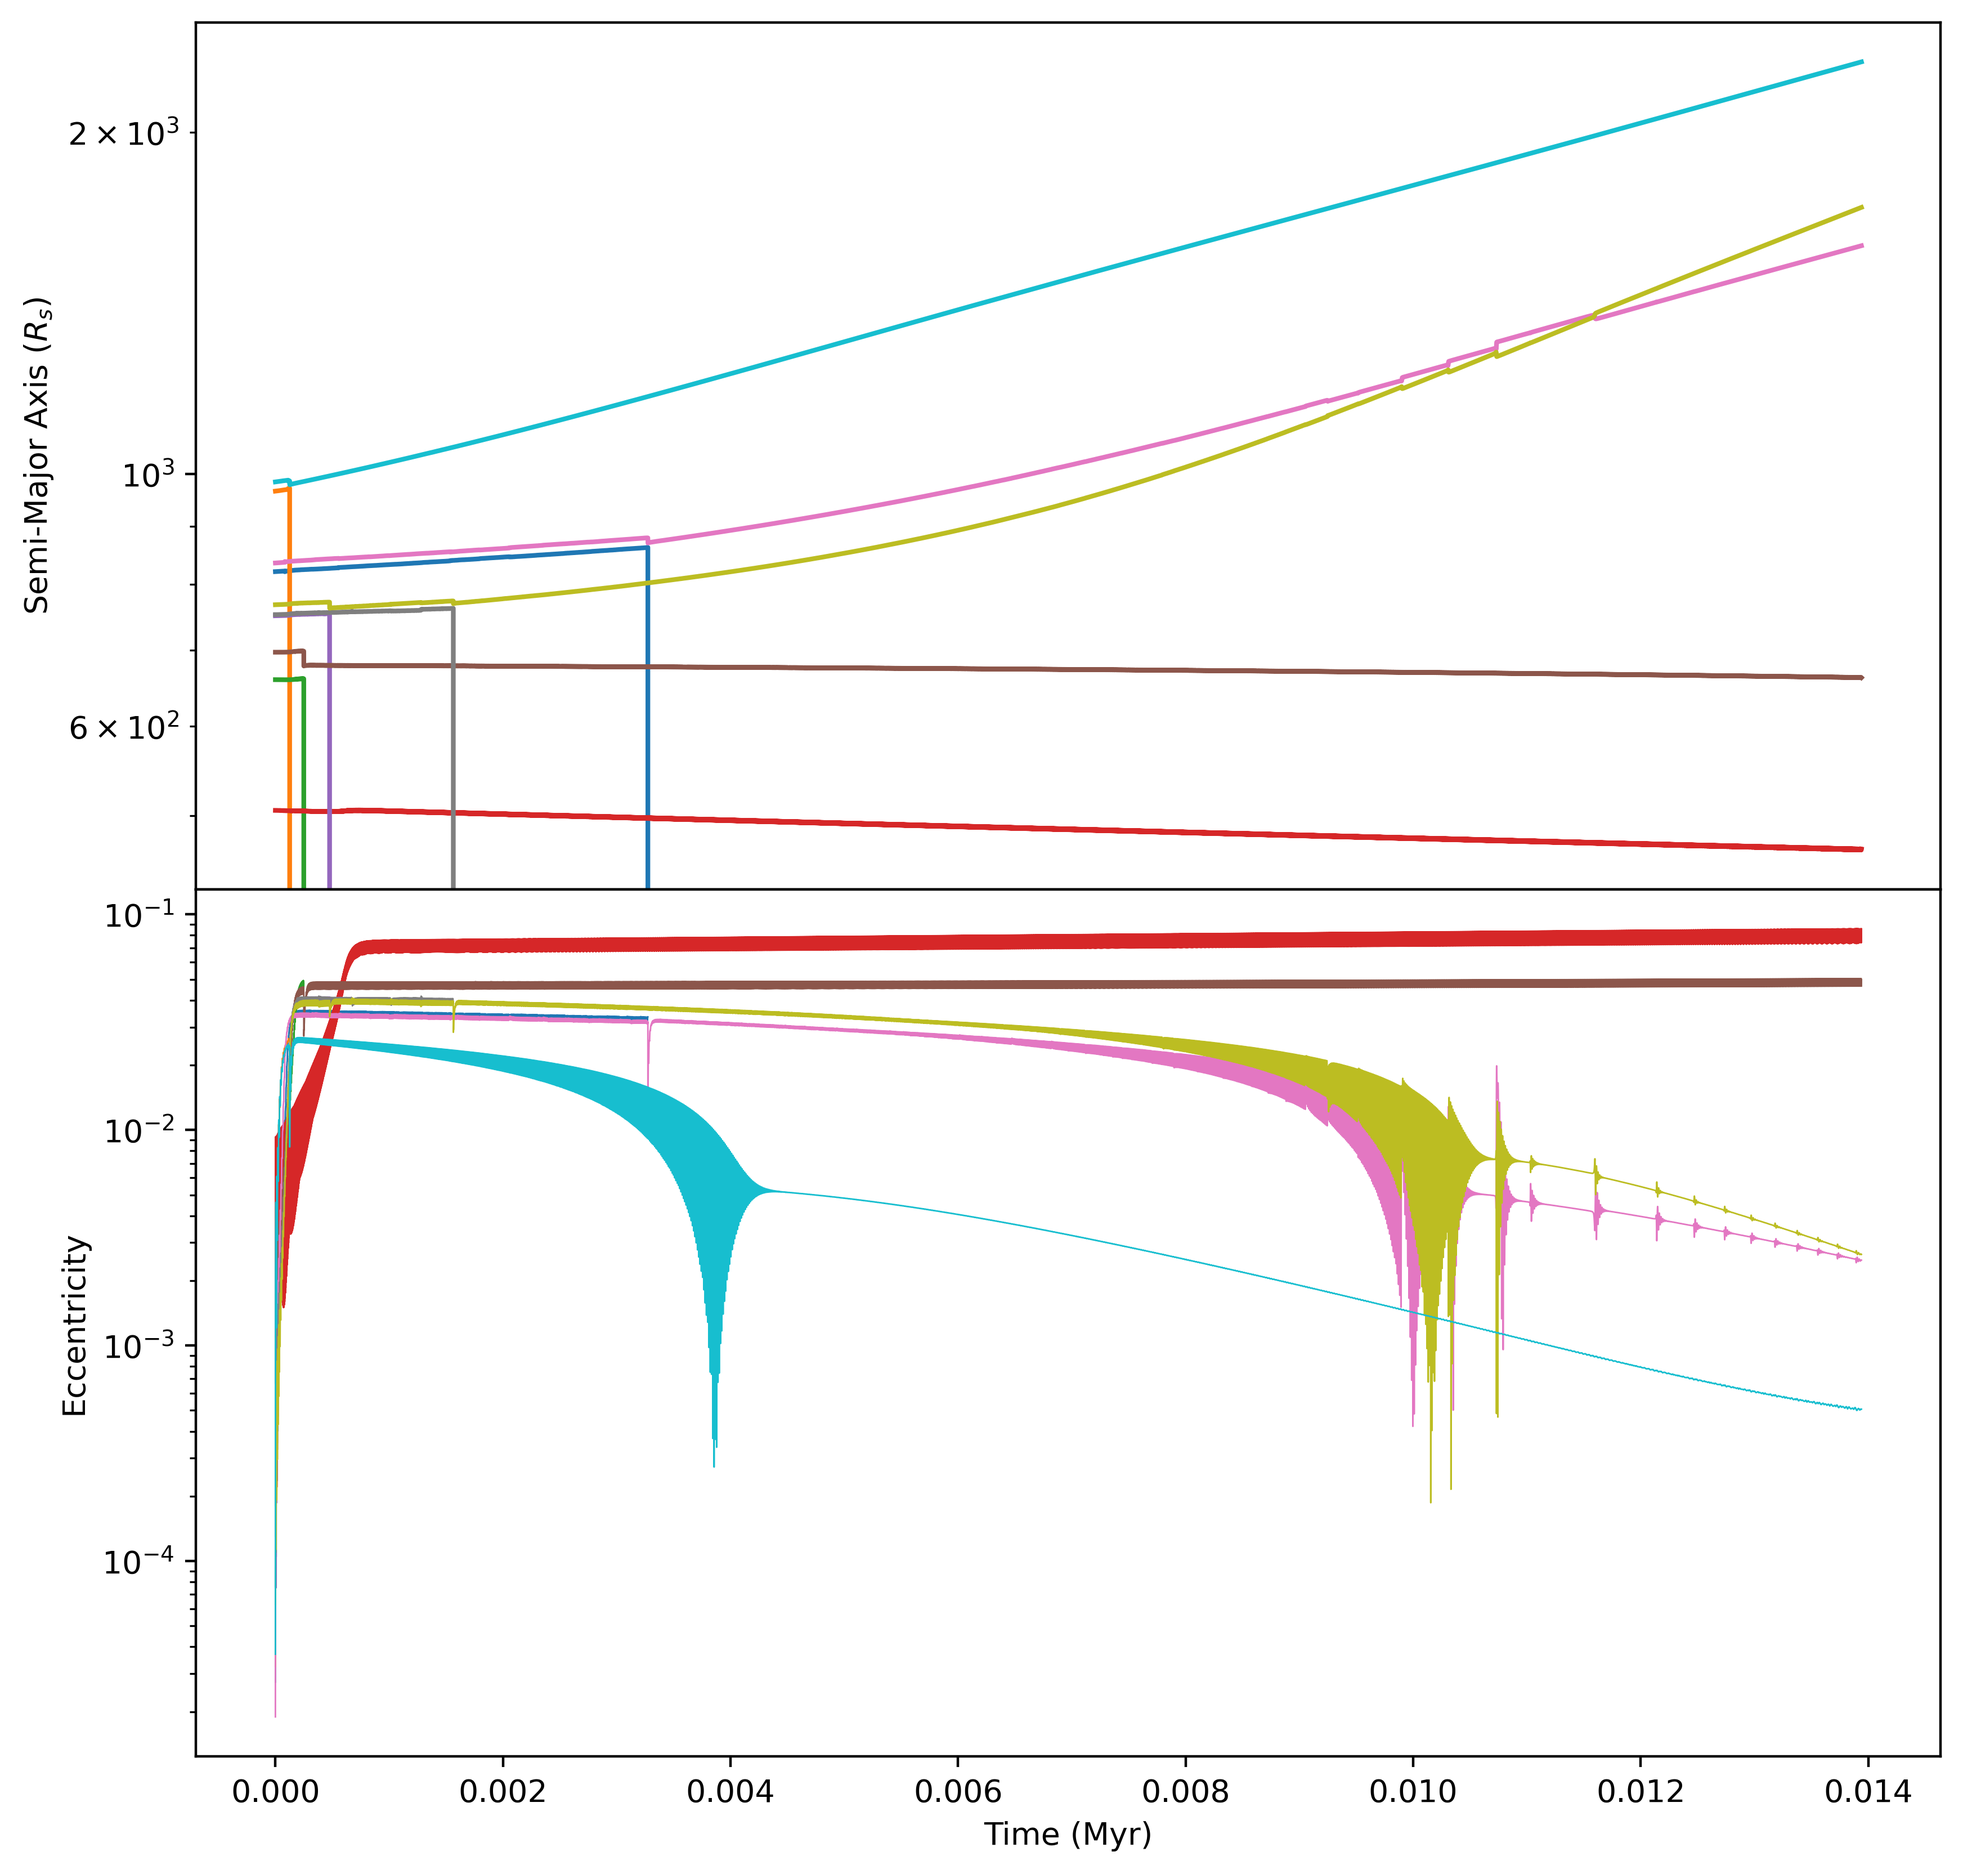
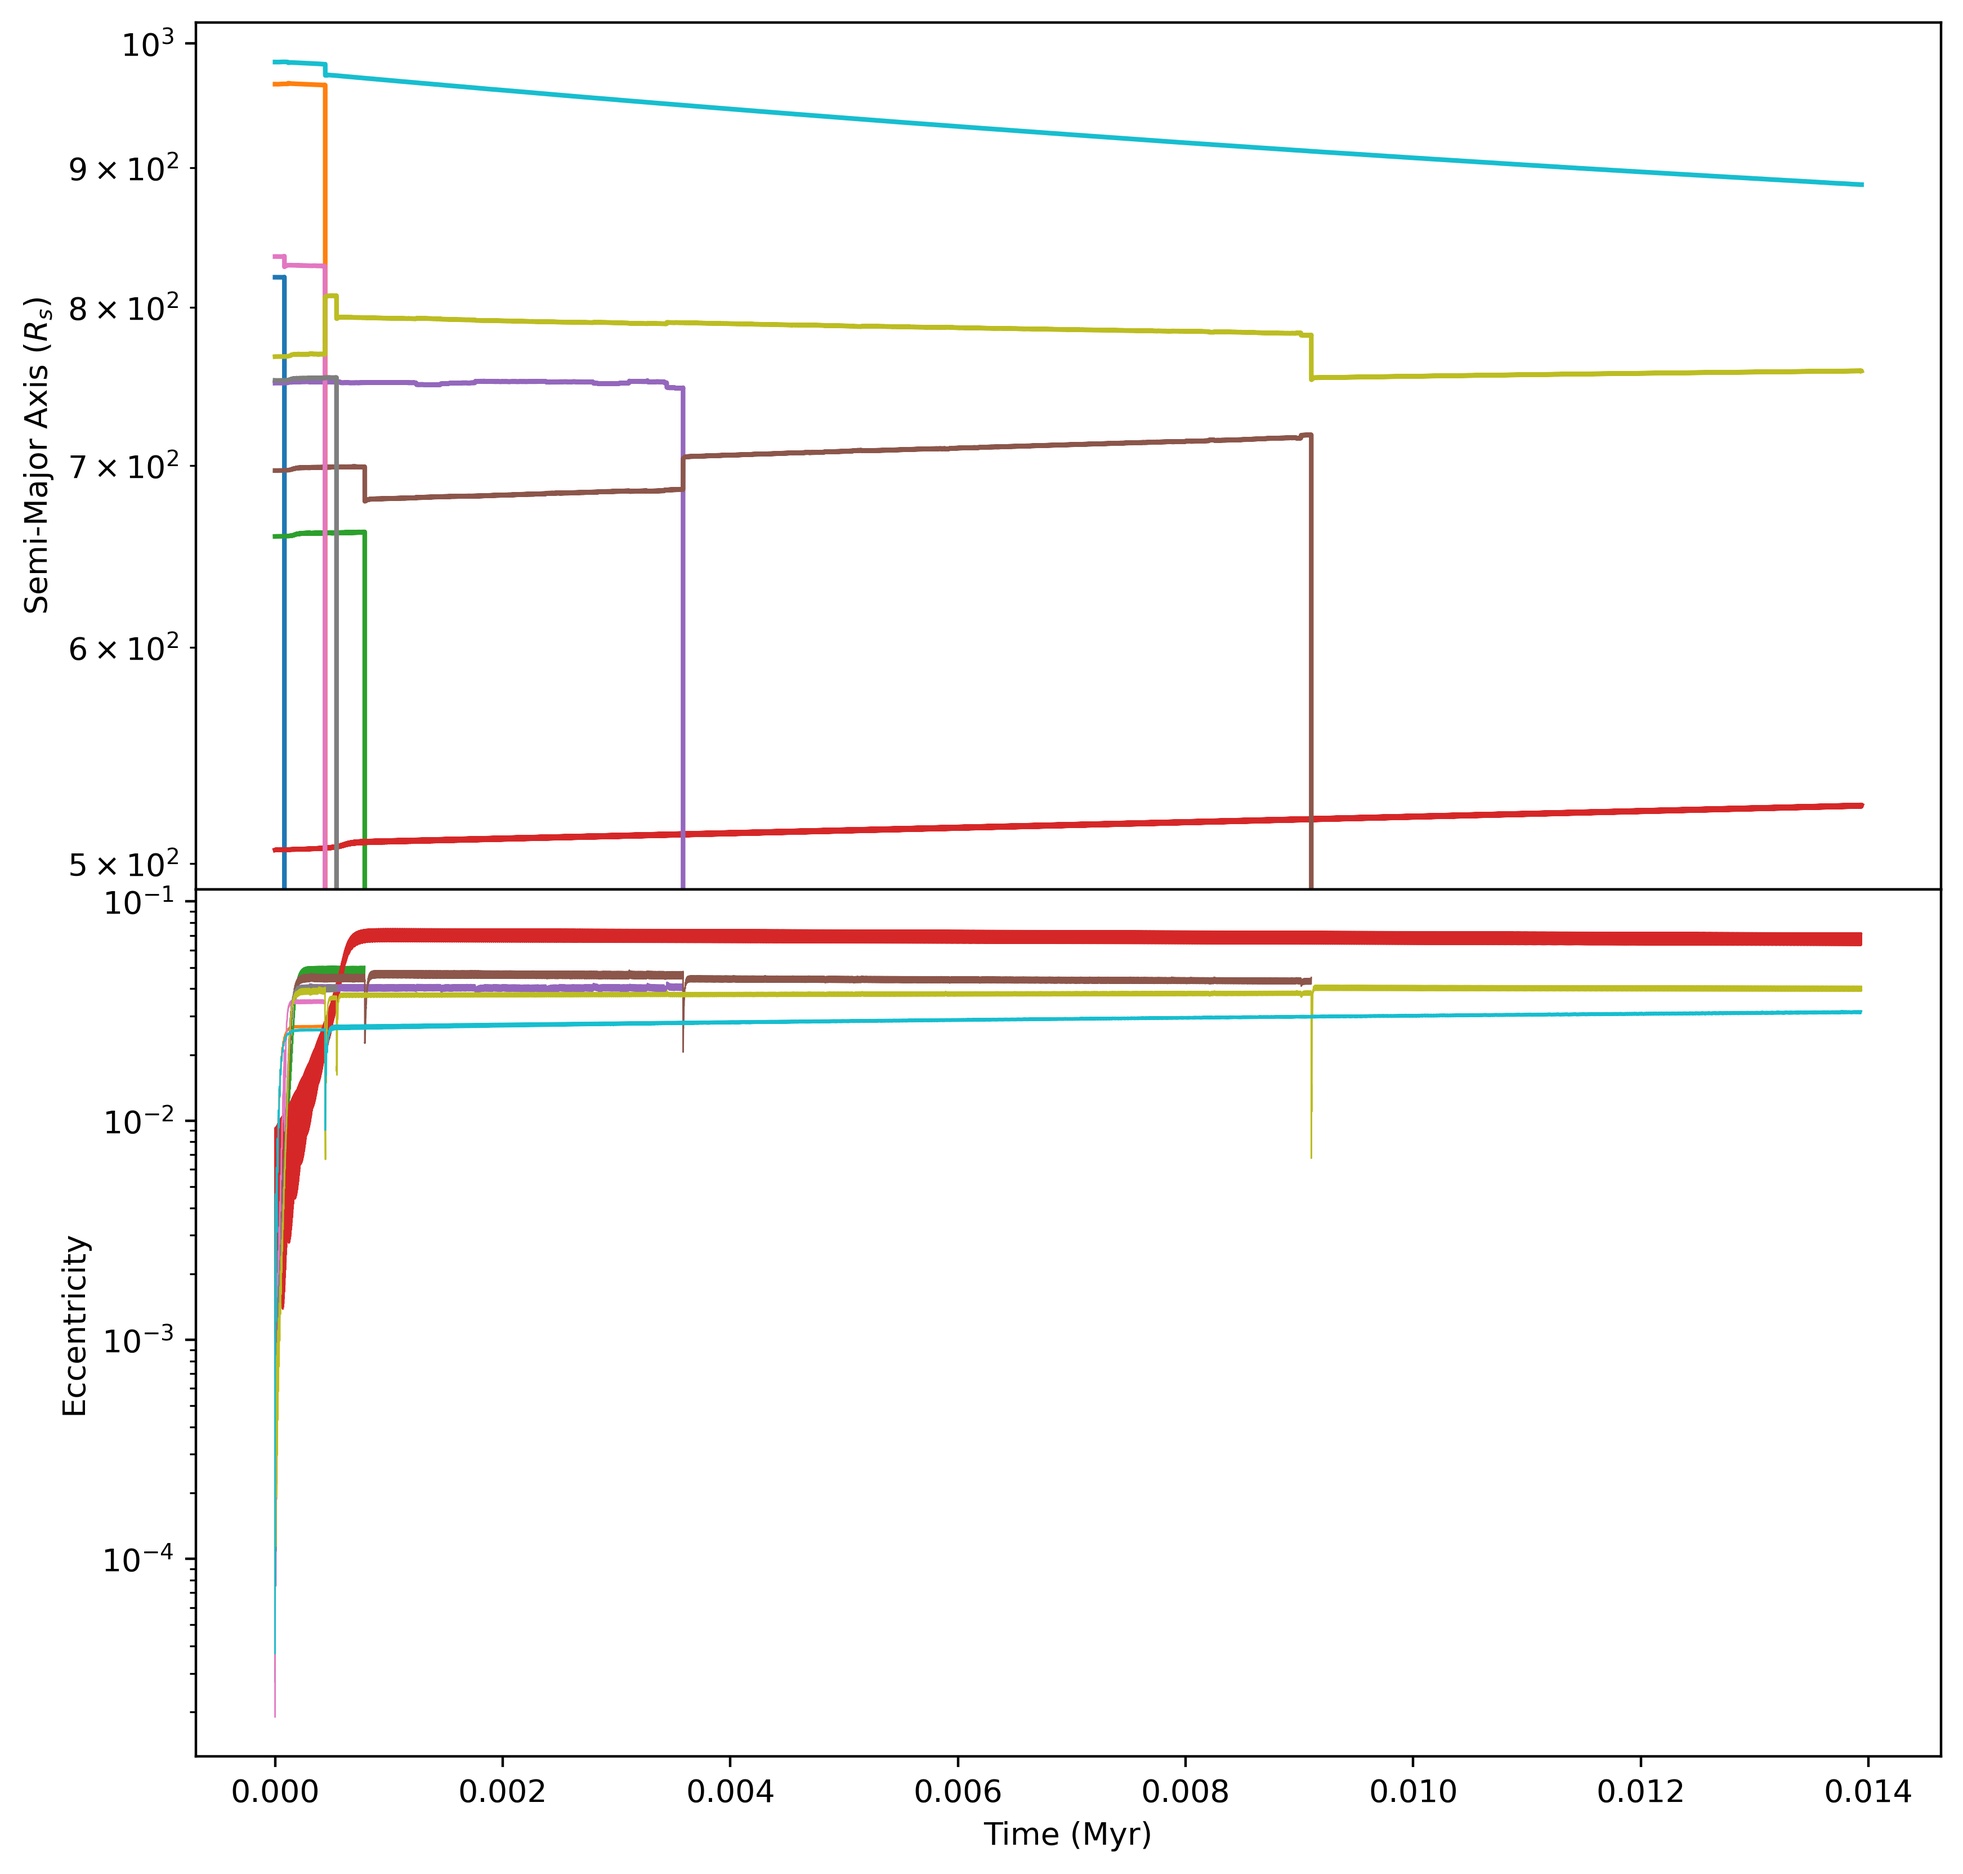
Revert back to common factors in literature

diff --git a/N-Body_Code/CommonTools.py b/N-Body_Code/CommonTools.py
@@ -117,11 +117,11 @@ class AGNDisk(object):
         #     beta = 1 / 2.3 * np.log(10)
         # else:
         #     beta = 5/6 * np.log(10)
-        alpha = log_sigma_spline.derivative()(logr) * np.log(10)
-        beta = log_temp_spline.derivative()(logr) * np.log(10)
+        alpha = log_sigma_spline.derivative()(logr)
+        beta = log_temp_spline.derivative()(logr)
         xi = beta - (gamma - 1) * alpha
         
-        Theta = (c_v * Sigma * rotvel * tau_eff) / (4 * np.pi * stefboltz * self.disk_temp(logr)**3)
+        Theta = (c_v * Sigma * rotvel * tau_eff) / (12 * np.pi * stefboltz * self.disk_temp(logr)**3)
         Gamma_0 = (q * radius / asp_ratio)**2 * Sigma * radius**4 * rotvel**2
         Gamma_iso =  -0.85 - alpha - 0.9 * beta
         Gamma_ad = (-0.85 - alpha - 1.7 * beta + 7.9 * xi / gamma) / gamma
